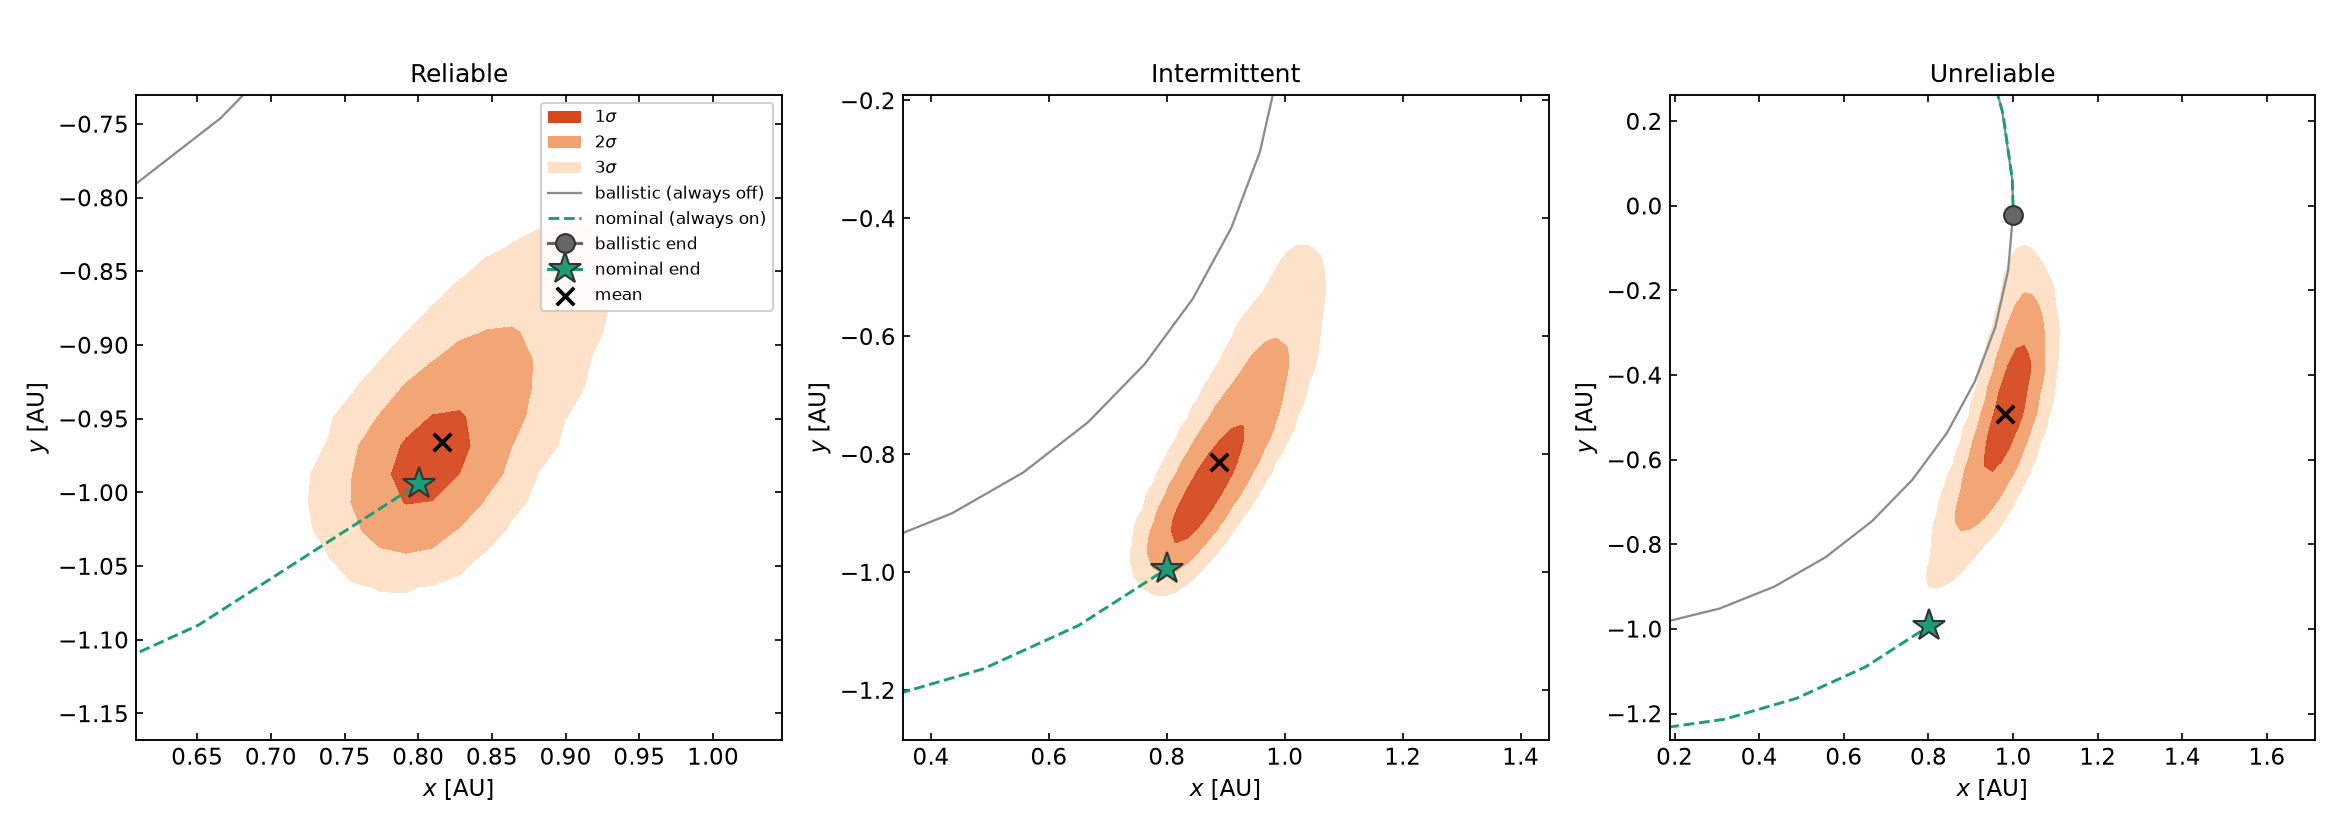
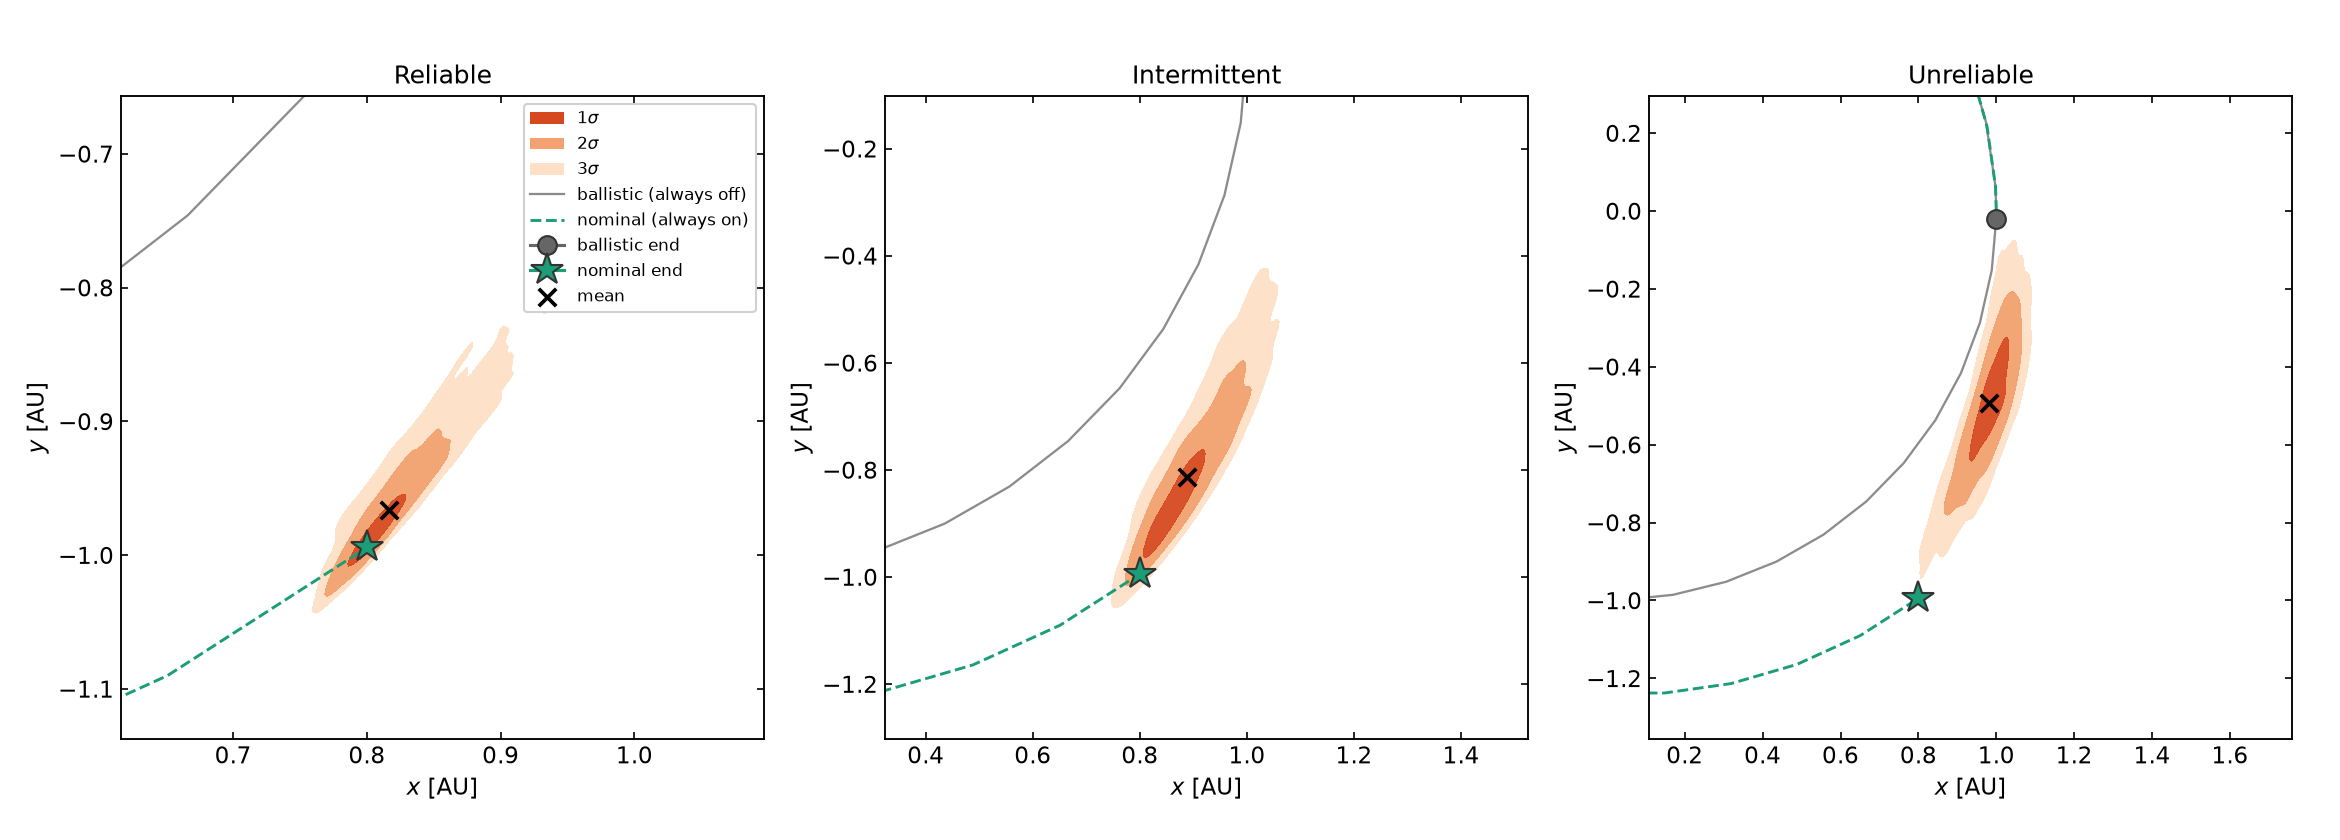
Render missed-thrust on/off dispersion with non-parametric KDE
Replace the global-grid histogram (whose ~0.058 AU smoothing floor made early
sub-resolution sets look spuriously large) with a non-parametric kernel-density
estimate of each snapshot's point cloud, evaluated on a per-snapshot local
rectangular grid:

- C++ now exports a 2000-point downsampled cloud per snapshot instead of a
  130x130 histogram (and drops the unused covariance/grid-resolution fields).
- plot.py draws HDR bands from scipy.stats.gaussian_kde. The local grid scales
  with each cloud, so the set is resolved at any size (no floor, no jump), and
  the rectangular grid resolves both the long and the thin axis of the strongly
  along-track-elongated sets. The growth figure fills the 3-sigma sets
  translucently into a dispersion tube; the zoom figure keeps the true
  non-Gaussian (teardrop) 1/2/3-sigma shape a covariance ellipse would hide.
- Update the tutorial text accordingly.

Claude-Session: https://claude.ai/code/session_01YYiZYPc8McVTqoinJprf9C

diff --git a/examples/missed_thrust_onoff/plot.py b/examples/missed_thrust_onoff/plot.py
@@ -3,8 +3,11 @@
 
 Render the on/off missed-thrust dispersion set written by the
 `missed_thrust_onoff` example. The Monte-Carlo cloud at each 4-day snapshot is
-stored as a 2-D histogram on a shared grid; from it we draw highest-density
-confidence bands (the smallest region containing a given fraction of samples).
+stored as a downsampled point cloud; from a non-parametric kernel-density
+estimate (KDE) of that cloud we draw highest-density confidence bands (the
+smallest region containing a given fraction of the probability mass). The KDE is
+evaluated on a per-snapshot local grid, so the set keeps its true (non-Gaussian)
+shape and is resolved at any size -- there is no shared-grid resolution floor.
 
 Pass one or more scenario JSON files (reliable / intermittent / unreliable);
 each becomes one column in the comparison figures.
@@ -31,7 +34,7 @@ import matplotlib.pyplot as plt
 from matplotlib.cm import ScalarMappable
 from matplotlib.colors import LinearSegmentedColormap, Normalize
 from matplotlib.patches import Patch
-from scipy.ndimage import gaussian_filter
+from scipy.stats import gaussian_kde
 
 plt.rcParams.update(
     {
@@ -62,20 +65,37 @@ def load(path):
         return json.load(f)
 
 
-def grid_axes(g):
-    """Cell-centre coordinate arrays (x, y) for the stored histogram grid."""
-    nx, ny = g["nx"], g["ny"]
-    xs = g["xmin"] + (np.arange(nx) + 0.5) * (g["xmax"] - g["xmin"]) / nx
-    ys = g["ymin"] + (np.arange(ny) + 0.5) * (g["ymax"] - g["ymin"]) / ny
-    return xs, ys
+def kde_field(snap, ngrid=130, pad=0.6):
+    """KDE density on a per-snapshot local grid sized to the cloud.
 
-
-def hist2d(snap, g, smooth=1.1):
-    """Return the (ny, nx) histogram, lightly smoothed for clean contours."""
-    h = np.asarray(snap["hist"], dtype=float).reshape(g["ny"], g["nx"])
-    if smooth:
-        h = gaussian_filter(h, smooth)
-    return h
+    Returns (X, Y, Z) or None if the cloud is degenerate (no spread). The grid is
+    a RECTANGLE fitted to the cloud's bounding box in each axis (with a small
+    floor so a near-degenerate thin axis still gets padding), so both the long
+    and the short axis of the very elongated along-track sets are resolved with
+    `ngrid` points -- otherwise a square grid would serrate the thin direction.
+    A per-snapshot local grid also means the set is resolved at any scale, with
+    no fixed shared-grid floor.
+    """
+    cx = np.asarray(snap["cloud_x"])
+    cy = np.asarray(snap["cloud_y"])
+    if cx.size < 3:
+        return None
+    rx, ry = np.ptp(cx), np.ptp(cy)
+    major = max(rx, ry)
+    if major <= 0 or not np.isfinite(major):
+        return None
+    mx, my = 0.5 * (cx.min() + cx.max()), 0.5 * (cy.min() + cy.max())
+    hx = 0.5 * max(rx, 0.06 * major) * (1.0 + 2.0 * pad)
+    hy = 0.5 * max(ry, 0.06 * major) * (1.0 + 2.0 * pad)
+    xs = np.linspace(mx - hx, mx + hx, ngrid)
+    ys = np.linspace(my - hy, my + hy, ngrid)
+    X, Y = np.meshgrid(xs, ys)
+    try:
+        kde = gaussian_kde(np.vstack([cx, cy]))
+        Z = kde(np.vstack([X.ravel(), Y.ravel()])).reshape(X.shape)
+    except np.linalg.LinAlgError:
+        return None  # singular covariance (essentially a point)
+    return X, Y, Z
 
 
 def hdr_levels(h, fracs):
@@ -99,14 +119,14 @@ def strictly_increasing(levels):
     return out
 
 
-def band_bbox(h, xs, ys, level, pad=0.45):
-    """Padded square (xlim, ylim) of the region {h >= level}, for auto-zoom."""
-    iy, ix = np.where(h >= level)
-    x0, x1 = xs[ix.min()], xs[ix.max()]
-    y0, y1 = ys[iy.min()], ys[iy.max()]
+def cloud_bbox(snap, pad=0.45):
+    """Padded square (xlim, ylim) around a snapshot's cloud, for auto-zoom."""
+    cx = np.asarray(snap["cloud_x"])
+    cy = np.asarray(snap["cloud_y"])
+    x0, x1, y0, y1 = cx.min(), cx.max(), cy.min(), cy.max()
     s = max(x1 - x0, y1 - y0) * (1.0 + 2 * pad)
-    cx, cy = 0.5 * (x0 + x1), 0.5 * (y0 + y1)
-    return (cx - s / 2, cx + s / 2), (cy - s / 2, cy + s / 2)
+    mx, my = 0.5 * (x0 + x1), 0.5 * (y0 + y1)
+    return (mx - s / 2, mx + s / 2), (my - s / 2, my + s / 2)
 
 
 def draw_refs(ax, d, sun=True, label=False):
@@ -174,34 +194,29 @@ def main():
     fig, axes = plt.subplots(1, n, figsize=(6.2 * n + 0.8, 6.6), squeeze=False)
     axes = axes[0]
     for k, (ax, d) in enumerate(zip(axes, datasets)):
-        g = d["grid"]
-        xs, ys = grid_axes(g)
-        X, Y = np.meshgrid(xs, ys)
-        # A histogram contour cannot resolve a cloud smaller than ~1 grid cell:
-        # below this the smoothed HDR contour saturates at a fixed "floor" size
-        # (~3 cells) and the early sets look spuriously large. Where the true
-        # 3-sigma radius is sub-resolution we draw it as a circle at the cloud
-        # mean instead, so the set shows its real (tiny) size and growth.
-        cell = max((g["xmax"] - g["xmin"]) / g["nx"], (g["ymax"] - g["ymin"]) / g["ny"])
-        res_floor = 1.5 * cell
+        # Each snapshot's 3-sigma boundary is the HDR contour of a KDE evaluated
+        # on a local grid sized to that snapshot's cloud. This is non-parametric
+        # (no Gaussian assumption) and resolves the set at any scale, so the
+        # envelope grows continuously from a point with no rendering floor/jump.
         snaps = d["snapshots"]
         t_final = snaps[-1]["t"]
-        theta = np.linspace(0, 2 * np.pi, 80)
+        # Fill the 3-sigma region of each snapshot translucently: the (true,
+        # thin) sets are only a few pixels at full-orbit scale, so 91 outlines
+        # read as a "feather"; overlapping fills instead merge into a smooth
+        # dispersion tube that widens along the orbit. Final boundary in red.
         for i, snap in enumerate(snaps):
             last = i == len(snaps) - 1
-            col = "red" if last else cmap(norm(snap["t"] / t_final))
-            lw = 1.6 if last else 1.0
-            alpha = 0.95 if last else 0.85
-            zo = 4 if last else 3
-            if snap["r3s"] < res_floor:                # sub-resolution: true circle
-                cx, cy = snap["mean"]
-                ax.plot(cx + snap["r3s"] * np.cos(theta), cy + snap["r3s"] * np.sin(theta),
-                        color=col, lw=lw, alpha=alpha, zorder=zo)
+            field = kde_field(snap, ngrid=110)
+            if field is None:
                 continue
-            h = hist2d(snap, g)
-            lvl = hdr_levels(h, [SIGMA_FRACS[2]])[0]   # 3-sigma envelope
-            ax.contour(X, Y, h, levels=strictly_increasing([lvl, h.max()]),
-                       colors=[col], linewidths=lw, alpha=alpha, zorder=zo)
+            X, Y, Z = field
+            lvl = hdr_levels(Z, [SIGMA_FRACS[2]])[0]   # 3-sigma envelope
+            col = cmap(norm(snap["t"] / t_final))
+            ax.contourf(X, Y, Z, levels=strictly_increasing([lvl, Z.max()]),
+                        colors=[col], alpha=0.45, zorder=3 + i)
+            if last:
+                ax.contour(X, Y, Z, levels=strictly_increasing([lvl, Z.max()]),
+                           colors=["red"], linewidths=1.6, zorder=200)
         draw_refs(ax, d, label=(k == 0))
         ax.set_xlim(xlim)
         ax.set_ylim(ylim)
@@ -225,13 +240,10 @@ def main():
     figz, axesz = plt.subplots(1, n, figsize=(5.2 * n, 5.6), squeeze=False)
     axesz = axesz[0]
     for k, (ax, d) in enumerate(zip(axesz, datasets)):
-        g = d["grid"]
-        xs, ys = grid_axes(g)
-        X, Y = np.meshgrid(xs, ys)
         snap = d["snapshots"][-1]
-        h = hist2d(snap, g)
-        l1, l2, l3 = hdr_levels(h, SIGMA_FRACS)
-        ax.contourf(X, Y, h, levels=strictly_increasing([l3, l2, l1, h.max()]),
+        X, Y, Z = kde_field(snap, ngrid=160, pad=0.5)  # well-resolved final cloud
+        l1, l2, l3 = hdr_levels(Z, SIGMA_FRACS)
+        ax.contourf(X, Y, Z, levels=strictly_increasing([l3, l2, l1, Z.max()]),
                     colors=BAND_COLS, alpha=0.95, zorder=1)
         first = k == 0
         draw_refs(ax, d, sun=False, label=first)
@@ -243,7 +255,7 @@ def main():
                 label="nominal end" if first else None)
         ax.scatter(snap["mean"][0], snap["mean"][1], marker="x", s=70, color="k",
                    lw=1.8, zorder=7, label="mean" if first else None)
-        bxlim, bylim = band_bbox(h, xs, ys, l3, pad=0.45)
+        bxlim, bylim = cloud_bbox(snap, pad=0.45)
         ax.set_xlim(bxlim)
         ax.set_ylim(bylim)
         ax.set_aspect("equal")

diff --git a/examples/missed_thrust_onoff/missed_thrust_onoff.cpp b/examples/missed_thrust_onoff/missed_thrust_onoff.cpp
@@ -66,7 +66,7 @@ struct Pt
 struct SnapAccum
 {
     std::vector< Pt > pts;
-    double sx = 0.0, sy = 0.0;
+    double sx = 0.0, sy = 0.0;  // sum x, sum y (centroid)
     std::array< long long, ThrusterModel::kNStates > lvl{};
 };
 
@@ -267,11 +267,11 @@ int main( int argc, char** argv )
     ymin -= my;
     ymax += my;
 
-    constexpr int NX = 130, NY = 130;
-    auto binIndex = [&]( double v, double lo, double hi, int n ) {
-        int idx = static_cast< int >( ( v - lo ) / ( hi - lo ) * n );
-        return idx < 0 ? 0 : ( idx >= n ? n - 1 : idx );
-    };
+    // Per-snapshot we export a downsampled point cloud (not a fixed global-grid
+    // histogram): plot.py runs a non-parametric KDE on it with a per-snapshot
+    // local grid, so the dispersion set keeps its true (non-Gaussian) shape and
+    // its size is resolved at any scale -- no grid floor, no rendering jump.
+    constexpr std::size_t kCloudOut = 2000;  // points exported per snapshot
 
     // ---- Write JSON ---------------------------------------------------------
     std::ofstream out( scenario.outfile );
@@ -302,7 +302,7 @@ int main( int argc, char** argv )
     out << "  \"validation\": { \"max_pos_err\": " << max_err << ", \"n_check\": " << kNCheck
         << " },\n";
     out << "  \"grid\": { \"xmin\": " << xmin << ", \"xmax\": " << xmax << ", \"ymin\": " << ymin
-        << ", \"ymax\": " << ymax << ", \"nx\": " << NX << ", \"ny\": " << NY << " },\n";
+        << ", \"ymax\": " << ymax << " },\n";
 
     auto writeCurve = [&]( const char* key,
                            const std::pair< std::vector< double >, std::vector< double > >& c,
@@ -320,13 +320,6 @@ int main( int argc, char** argv )
     for ( int k = 0; k < kNArcs; ++k )
     {
         const auto& snap = snaps[static_cast< std::size_t >( k )];
-        std::vector< int > hist( static_cast< std::size_t >( NX * NY ), 0 );
-        for ( const auto& p : snap.pts )
-        {
-            const int ix = binIndex( p.x, xmin, xmax, NX );
-            const int iy = binIndex( p.y, ymin, ymax, NY );
-            ++hist[static_cast< std::size_t >( iy * NX + ix )];
-        }
         const double n = static_cast< double >( snap.pts.size() );
         const double cx = n > 0 ? snap.sx / n : 0.0;
         const double cy = n > 0 ? snap.sy / n : 0.0;
@@ -358,8 +351,22 @@ int main( int argc, char** argv )
                 << ( nseq > 0 ? static_cast< double >( snap.lvl[static_cast< std::size_t >( s )] ) /
                                     static_cast< double >( nseq )
                               : 0.0 );
-        out << "], \"hist\": [";
-        for ( std::size_t i = 0; i < hist.size(); ++i ) out << ( i ? "," : "" ) << hist[i];
+        // Downsampled cloud (strided) for the KDE in plot.py.
+        const std::size_t stride = std::max< std::size_t >( 1, snap.pts.size() / kCloudOut );
+        out << "], \"cloud_x\": [";
+        bool first_pt = true;
+        for ( std::size_t i = 0; i < snap.pts.size(); i += stride )
+        {
+            out << ( first_pt ? "" : "," ) << snap.pts[i].x;
+            first_pt = false;
+        }
+        out << "], \"cloud_y\": [";
+        first_pt = true;
+        for ( std::size_t i = 0; i < snap.pts.size(); i += stride )
+        {
+            out << ( first_pt ? "" : "," ) << snap.pts[i].y;
+            first_pt = false;
+        }
         out << "] }" << ( k + 1 < kNArcs ? "," : "" ) << "\n";
     }
     out << "  ]\n}\n";

diff --git a/docs/tutorials/missed_thrust_onoff.md b/docs/tutorials/missed_thrust_onoff.md
@@ -118,19 +118,25 @@ for (int k = 0; k < kNArcs; ++k) {
     auto sol = tax::ode::propagate(Verner89{},
                    rhs(magBase, theta_nom), x, k*kArc, (k+1)*kArc, cfg);
     x = sol.x.back();          // carry the Taylor map across the arc boundary
-    // evaluate x(2), x(3) at 16 random (δm, δθ) → add to the histogram
+    // evaluate x(2), x(3) at 16 random (δm, δθ) → add to the snapshot cloud
 }
 ```
 
 Carrying the Taylor-valued state across arc boundaries **composes the per-arc
 flow maps** automatically. After each arc the position is a degree-6 polynomial
 in \((\delta_m,\delta_\theta)\); evaluating it at 16 random samples per arc is
-far cheaper than an integration, so 8000 schedules × 16 draws fill a 130 × 130
-histogram at every 4-day snapshot. A direct re-integration of a few schedules
+far cheaper than an integration, so 8000 schedules × 16 draws build a dense
+point cloud at every 4-day snapshot. A direct re-integration of a few schedules
 validates the surrogate (max position error ≈ machine zero).
 
-Confidence bands are the **highest-density regions** at the 2-D
+Confidence bands are the **highest-density regions (HDR)** at the 2-D
 Gaussian-equivalent coverage masses (1σ = 39.35 %, 2σ = 86.47 %, 3σ = 98.89 %).
+They are read from a **non-parametric kernel-density estimate (KDE)** of each
+snapshot's point cloud, evaluated on a per-snapshot local grid. This makes no
+shape assumption (so the true non-Gaussian sets are preserved) and resolves the
+set at any scale — a fixed shared grid, by contrast, cannot resolve the
+sub-\(10^{-2}\,\mathrm{AU}\) early sets and would clamp them to a spurious
+resolution floor.
 
 ---
 
@@ -138,24 +144,26 @@ Gaussian-equivalent coverage masses (1σ = 39.35 %, 2σ = 86.47 %, 3σ = 98.89 %
 
 ### Dispersion growth over the revolution
 
-Each closed curve is the 3σ dispersion boundary at one 4-day snapshot, coloured
-by \(t/T\) (blue early → red final), strung along the orbit on the ballistic
-(grey) and nominal (green dashed) references.
+The 3σ dispersion set at each 4-day snapshot is filled translucently and
+coloured by \(t/T\) (blue early → light late, final boundary in red), so the
+snapshots merge into a single dispersion **tube** widening along the orbit, over
+the ballistic (grey) and nominal (green dashed) references.
 
 ![On/off dispersion 3σ growth over one revolution](img/missed_thrust_onoff.png)
 
 The dispersion **starts at essentially a point** and widens as missed-thrust
 offsets accumulate: for the first ~third of the revolution the 3σ radius is
 below \(10^{-2}\,\mathrm{AU}\) (a single missed 4-day arc barely perturbs the
-orbit), then it grows super-linearly as phase errors compound. The early
-snapshots are sub-resolution for the shared histogram grid, so they are drawn as
-true-radius circles at the cloud mean rather than smoothed contours — otherwise
-the grid/smoothing floor would make them look spuriously large. The **mean
-track also lags further behind the nominal** as reliability drops: more OFF arcs
-deliver less total impulse, so the orbit stays closer to the (faster) ballistic
-circle and the spacecraft advances further around it — the unreliable beads
-reach much higher up the right-hand side than the tightly-clustered reliable
-ones.
+orbit), then it grows super-linearly as phase errors compound. The sets are
+genuinely thin — strongly elongated **along-track**, since the dominant
+variation between schedules is *how far around the orbit* the spacecraft has
+advanced. The tube widens dramatically with unreliability: the reliable thruster
+(≈ 97 % ON) keeps a narrow corridor hugging the nominal, while the unreliable
+one fans out across a broad swath. The **mean track also lags further behind the
+nominal** as reliability drops: more OFF arcs deliver less total impulse, so the
+orbit stays closer to the (faster) ballistic circle and the spacecraft advances
+further around it — the unreliable tube reaches much higher up the right-hand
+side than the tightly-clustered reliable one.
 
 ### Final-epoch dispersion — nested 1/2/3σ bands
 
@@ -169,6 +177,9 @@ always thrusts. As reliability drops, the band **grows and its mean migrates
 from the nominal endpoint toward the ballistic one**: the unreliable spacecraft
 spends more than half its arcs OFF, so on average it behaves much like the
 no-thrust orbit, with a broad 3σ spread reflecting *which* arcs happened to miss.
+The KDE bands are markedly **non-Gaussian** — an asymmetric teardrop with the
+dense core at the nominal (all-ON) tip and a long tail toward the ballistic
+endpoint — a shape a covariance ellipse could not represent.
 
 ### Duty cycle and dispersion radius vs. time
 